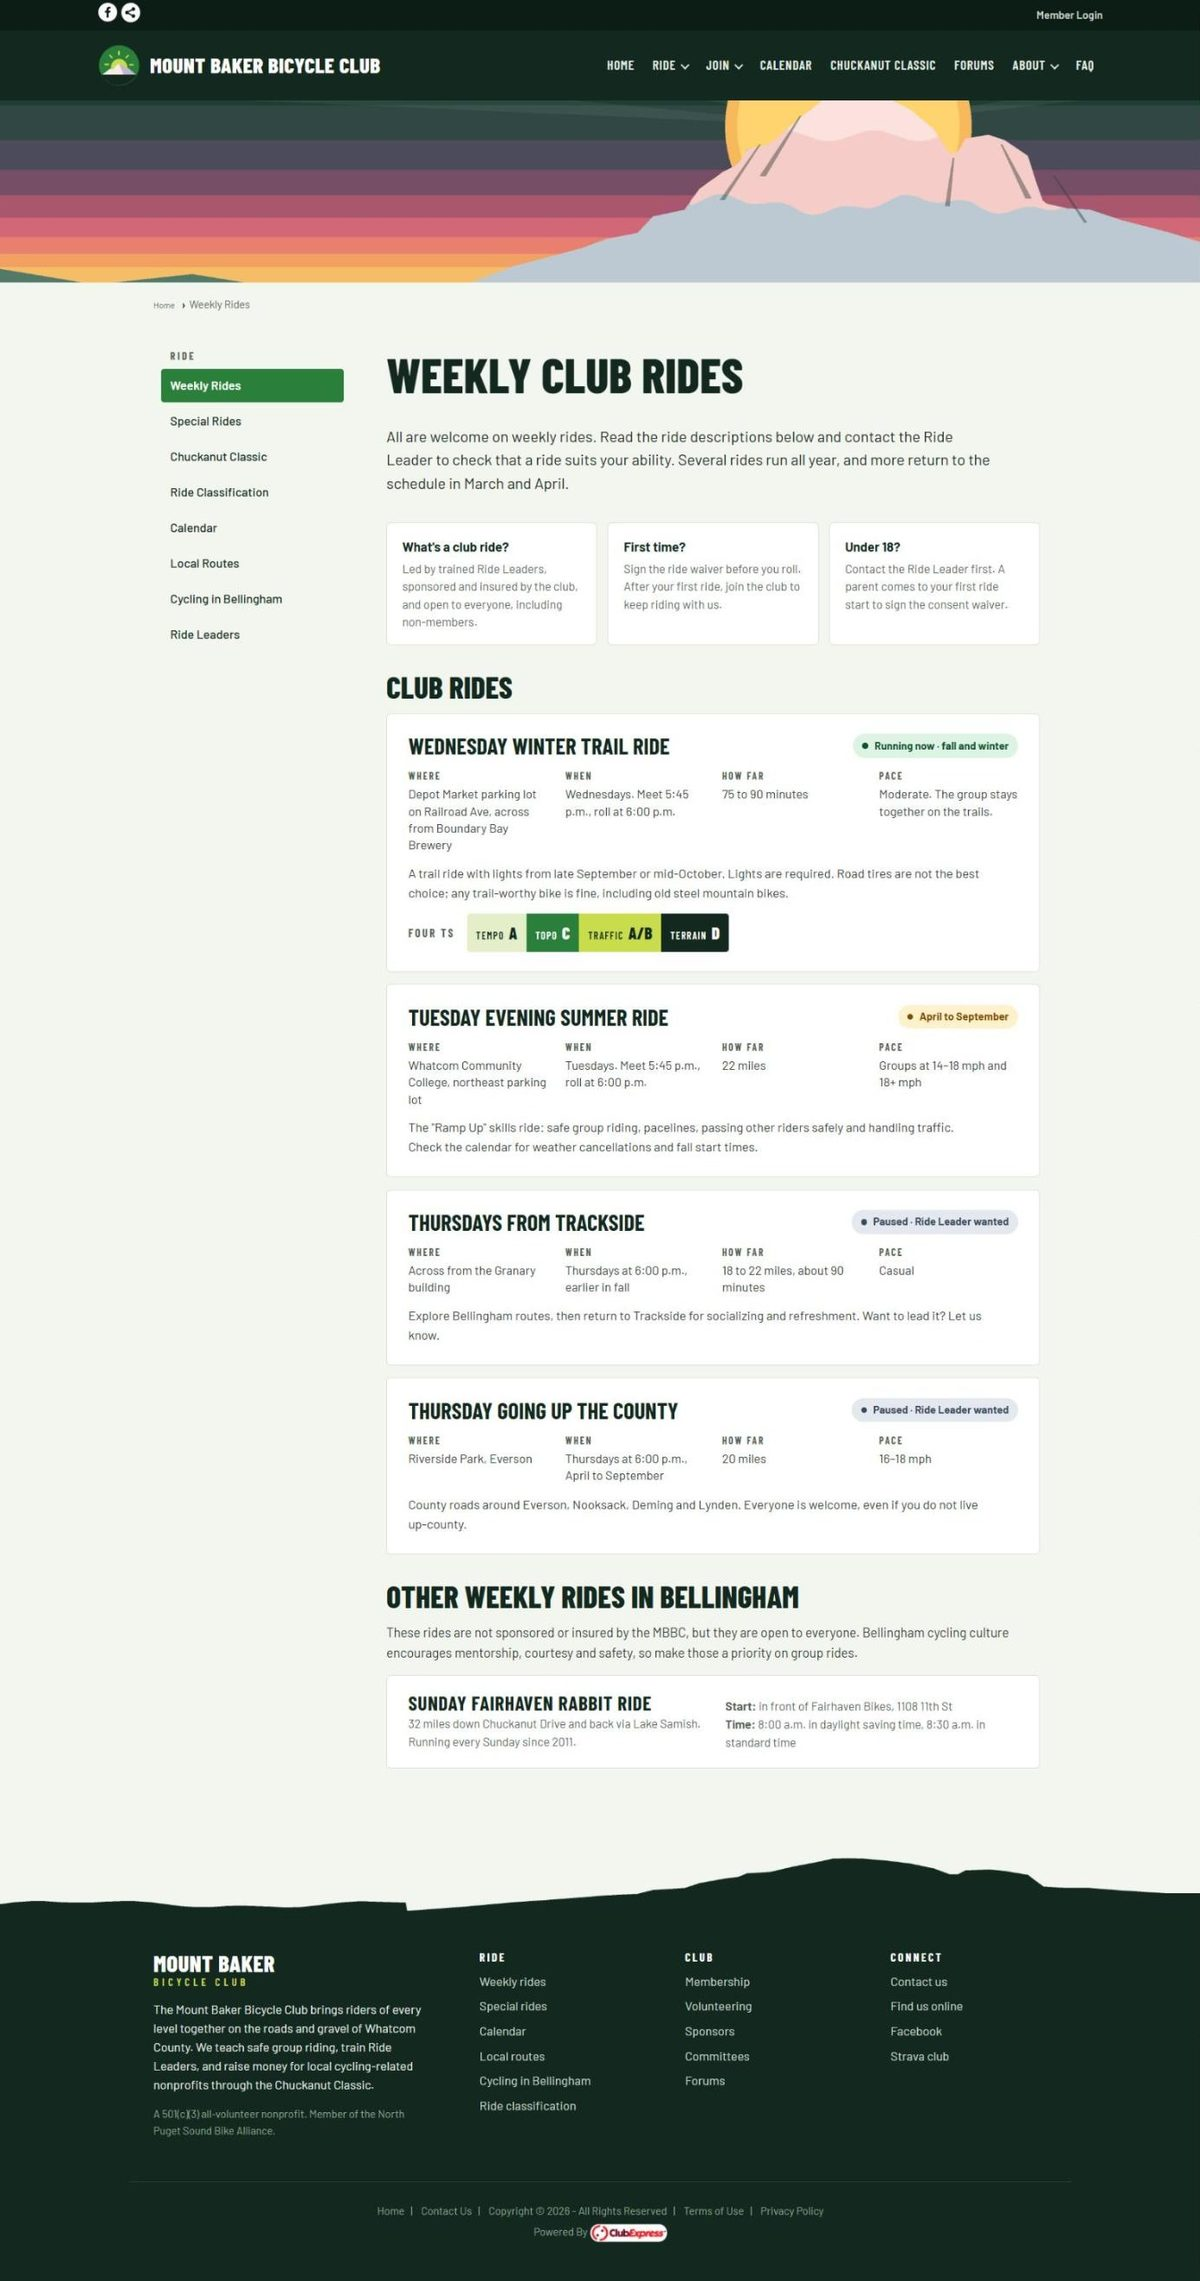
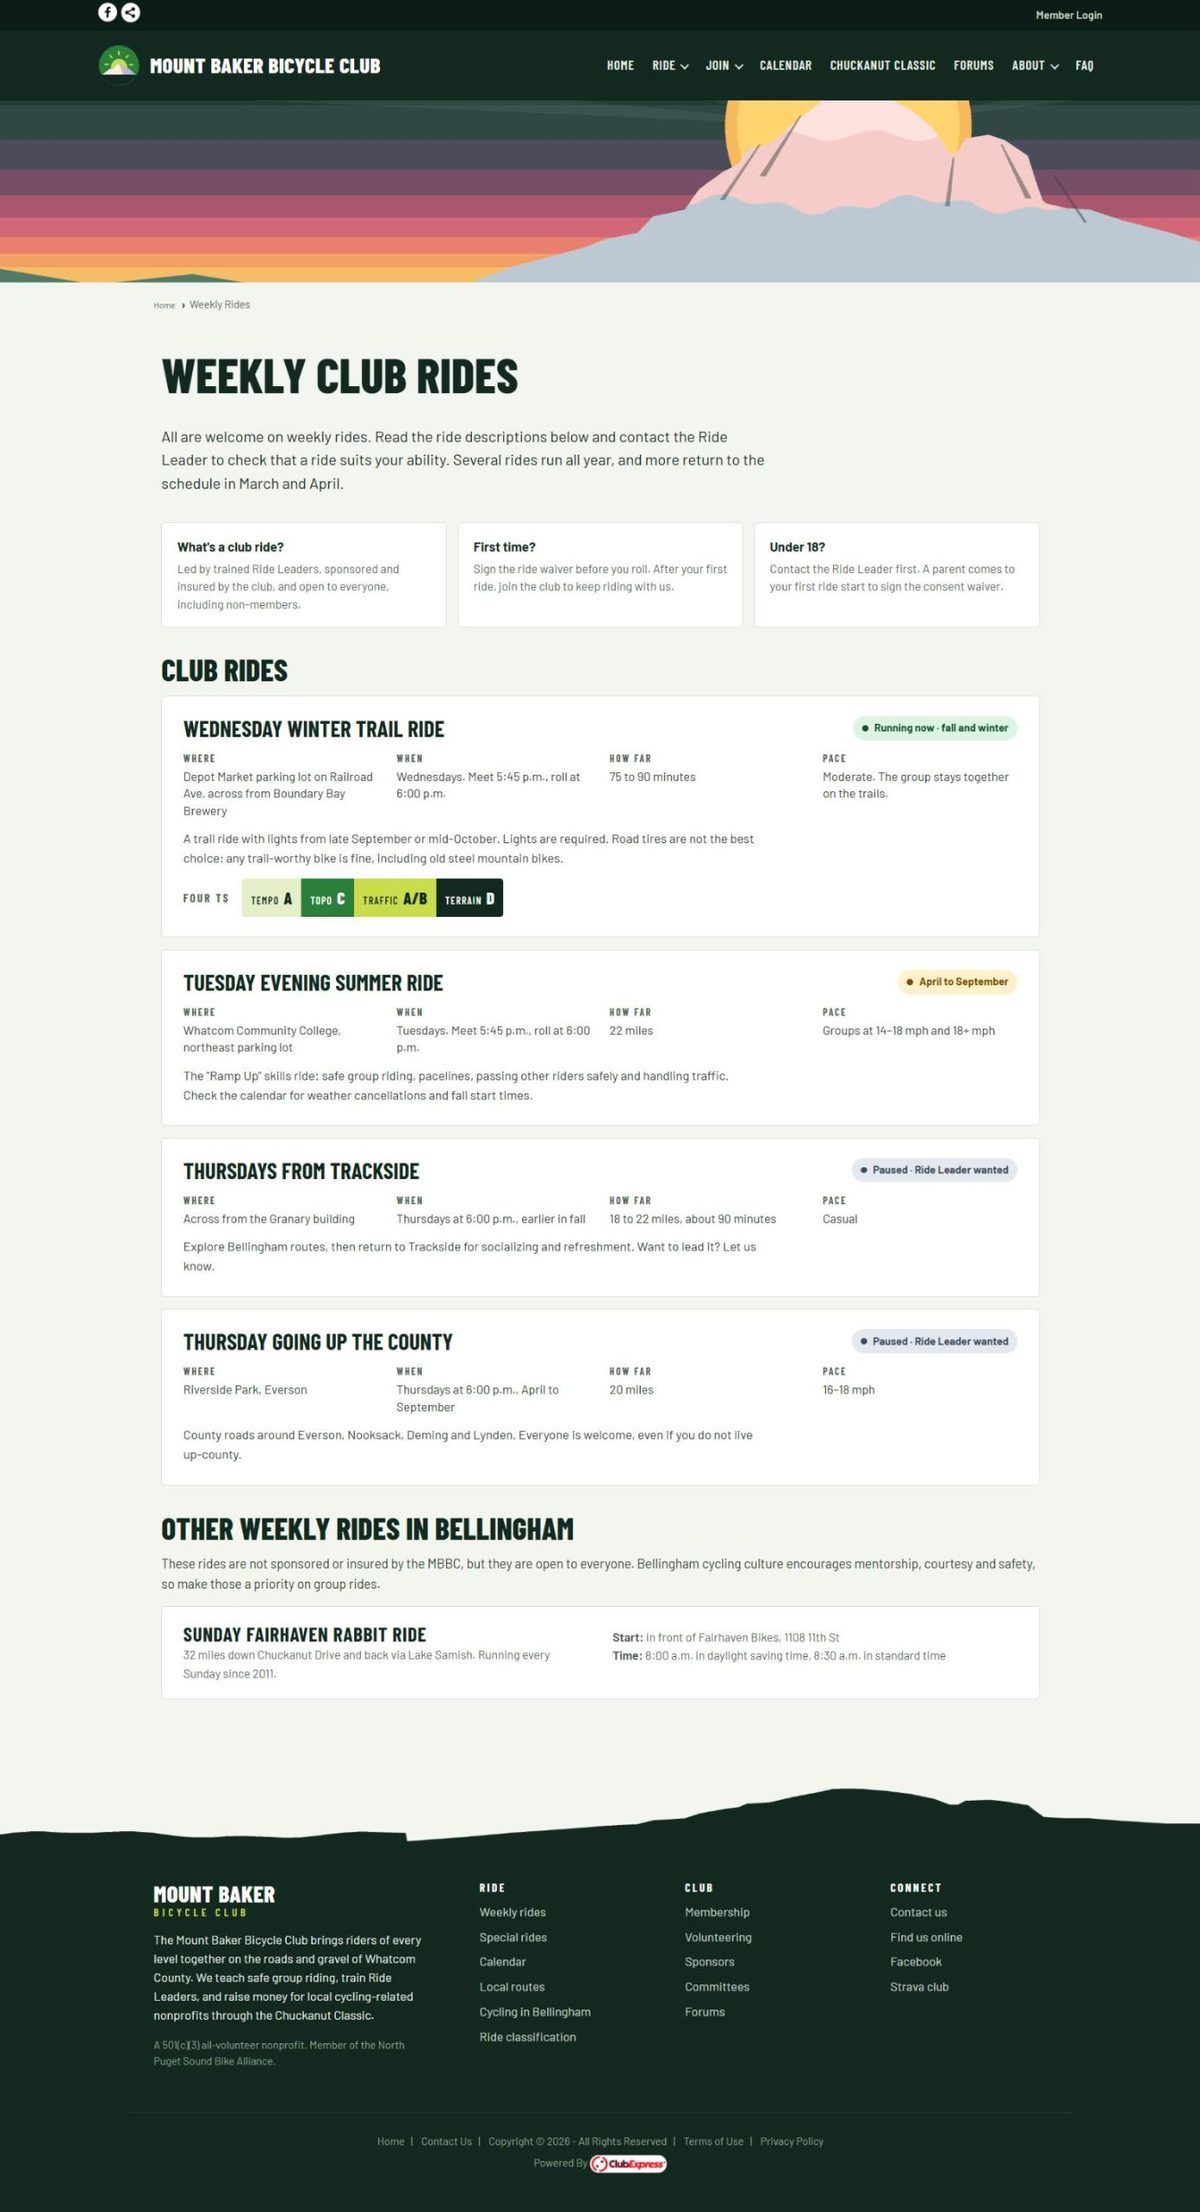
Drop the section menu from the interior page shots
The left-hand menu repeated the dropdowns above it, had to be kept in
sync by hand and pushed the content down on phones. Weekly Rides, Find us
online and Cycling in Bellingham now use the full width.

diff --git a/index.html b/index.html
@@ -523,7 +523,7 @@
       </figure>
       <figure class="shot">
         <figcaption><span class="tag tag-new">Proposed</span>Weekly Rides page</figcaption>
-        <a class="frame" href="img/rides-after.jpg"><img src="img/rides-after.jpg" width="1200" height="2281" loading="lazy" alt="The proposed Weekly Rides page: a section menu on the left, three short notes for newcomers, then a card per club ride with Where, When, How far and Pace, a status badge, and a separate list of other weekly rides in Bellingham."></a>
+        <a class="frame" href="img/rides-after.jpg"><img src="img/rides-after.jpg" width="1200" height="2212" loading="lazy" alt="The proposed Weekly Rides page: a section menu on the left, three short notes for newcomers, then a card per club ride with Where, When, How far and Pace, a status badge, and a separate list of other weekly rides in Bellingham."></a>
       </figure>
     </div>
   </section>
@@ -536,7 +536,7 @@
     <div class="compare compare-single">
       <figure class="shot">
         <figcaption><span class="tag tag-new">New page</span>Find us online</figcaption>
-        <a class="frame" href="img/online-after.jpg"><img src="img/online-after.jpg" width="1200" height="1500" loading="lazy" alt="The proposed Find us online page: cards for the club's Facebook page, Strava club and RideWithGPS route library, the Chuckanut Classic's Facebook page and routes, and the Podiumwear team store."></a>
+        <a class="frame" href="img/online-after.jpg"><img src="img/online-after.jpg" width="1200" height="1498" loading="lazy" alt="The proposed Find us online page: cards for the club's Facebook page, Strava club and RideWithGPS route library, the Chuckanut Classic's Facebook page and routes, and the Podiumwear team store."></a>
       </figure>
     </div>
   </section>
@@ -553,7 +553,7 @@
       </figure>
       <figure class="shot">
         <figcaption><span class="tag tag-new">Proposed</span>Cycling in Bellingham</figcaption>
-        <a class="frame" href="img/bellingham-after.jpg"><img src="img/bellingham-after.jpg" width="1200" height="1552" loading="lazy" alt="The proposed Cycling in Bellingham page, headed A cycling paradise: cards for where to ride, the local bike shops as buttons, four cards on the cycling community, and a New here? Say hello box with a Contact us button."></a>
+        <a class="frame" href="img/bellingham-after.jpg"><img src="img/bellingham-after.jpg" width="1200" height="1544" loading="lazy" alt="The proposed Cycling in Bellingham page, headed A cycling paradise: cards for where to ride, the local bike shops as buttons, four cards on the cycling community, and a New here? Say hello box with a Contact us button."></a>
       </figure>
     </div>
   </section>
